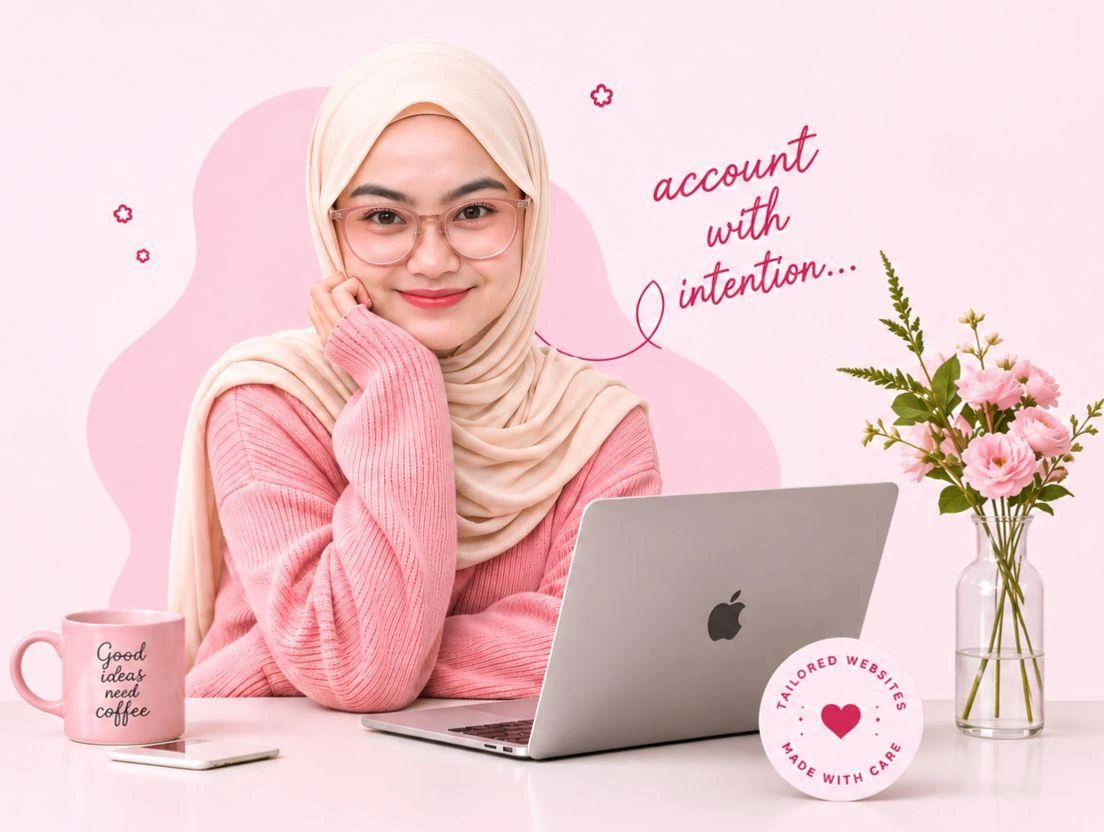
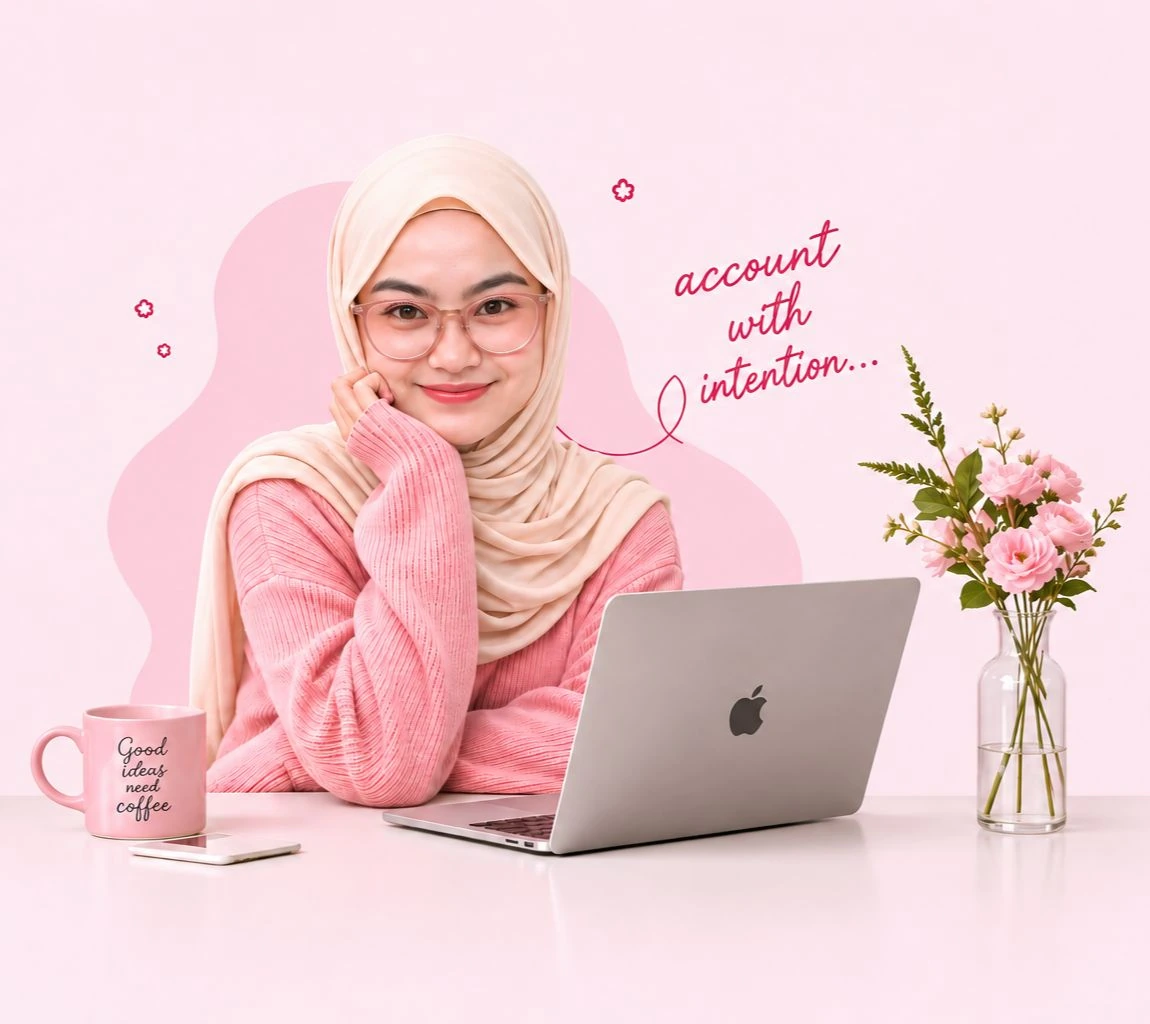
Replace contact section photo

diff --git a/index.html b/index.html
@@ -1470,7 +1470,7 @@
           <!-- Left: Photo -->
           <div class="md:col-span-5">
             <div class="rounded-[2rem] overflow-hidden">
-              <img src="contact-photo-full.webp" alt="Nur Sa'idah bekerja dengan laptop dan bunga di meja" class="w-full h-auto block" width="1104" height="832">
+              <img src="contact-photo-full.webp?v=2" alt="Nur Sa'idah bekerja dengan laptop dan bunga di meja" class="w-full h-auto block" width="1150" height="1024">
             </div>
           </div>
 
